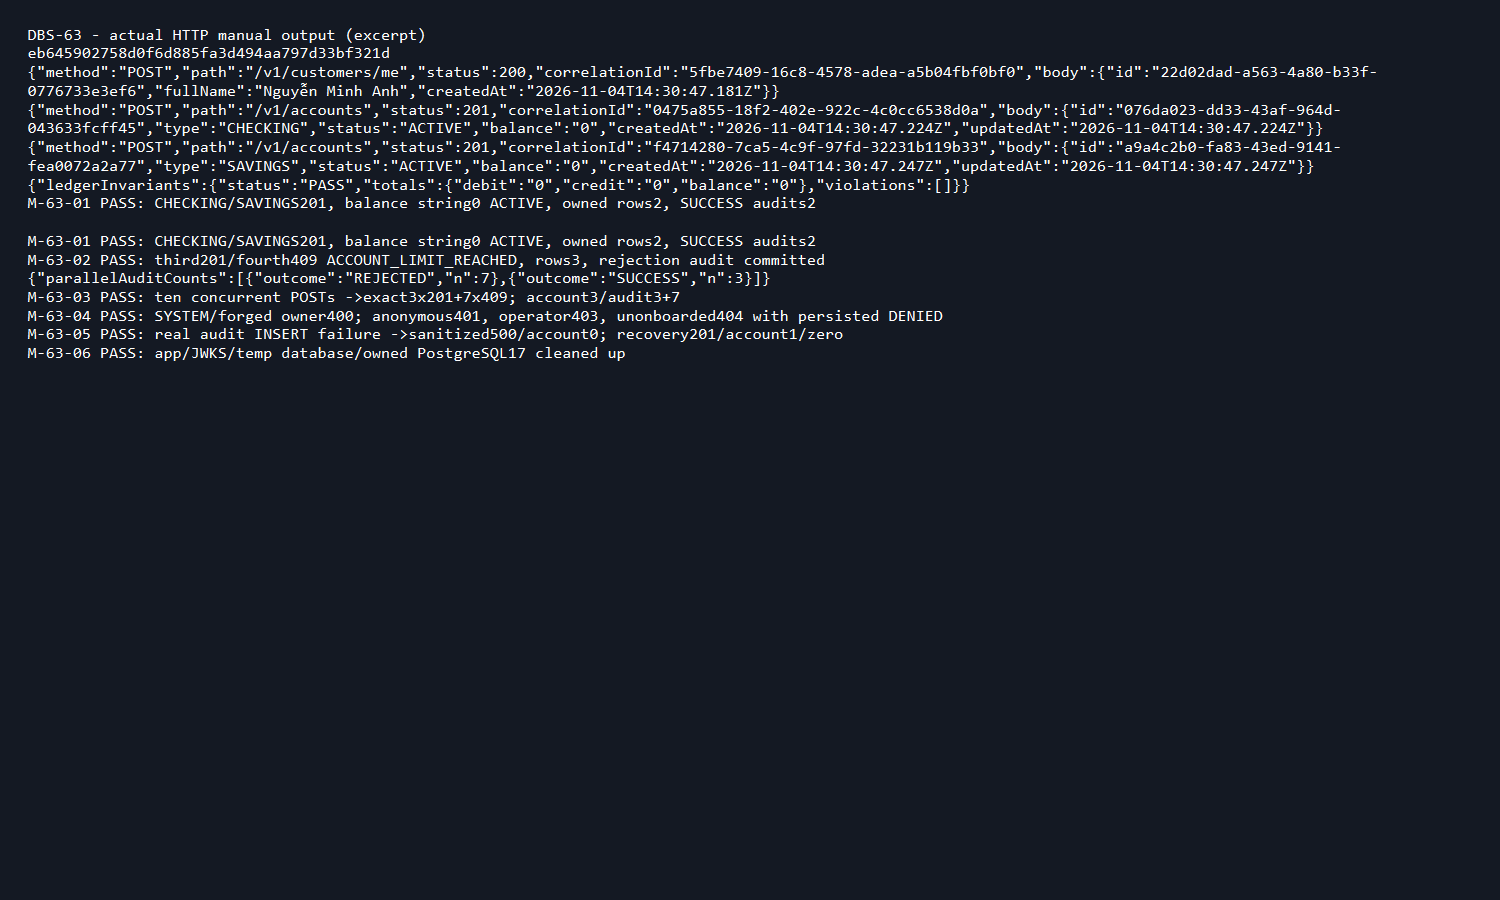
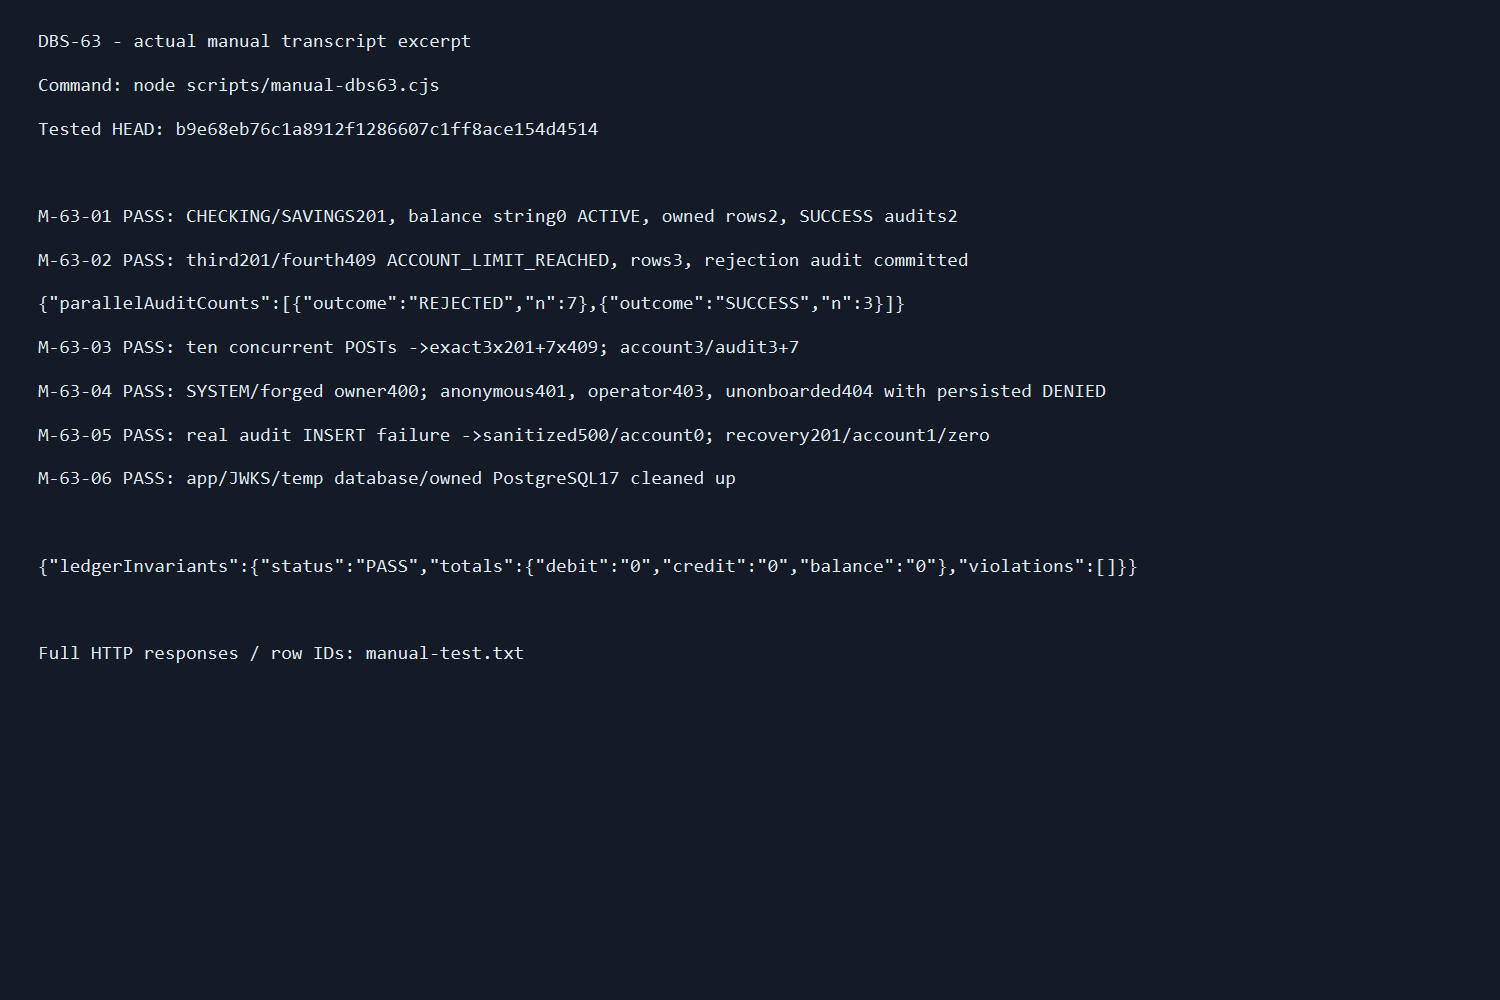
docs(accounts): refresh DBS-63 evidence after main rebase

diff --git a/docs/features/DBS-63-open-accounts.md b/docs/features/DBS-63-open-accounts.md
@@ -1,12 +1,12 @@
 # DBS-63 · UC-2 open customer accounts
 
-Status: Implemented on user-approved temporary DBS-62 base7d41a51; main PR/CI/review/merge pending BL-145. Owner: Dev. Updated 2026-11-04.
+Status: Rebased onto main2df7d0a after DBS-62 merge; main-based Draft PR/CI in progress, Dev review/merge pending BL-145. Owner: Dev. Updated 2026-11-06.
 
 ## 1. Context and scope
 
 Board: Week2, Story, Dev, Highest, In Progress. Exact DoD: open CHECKING/SAVINGS inside a transaction locking the customers row; at least5 concurrent requests create exactly3 accounts, others ACCOUNT_LIMIT_REACHED; audit, initial balance0, SYSTEM forbidden; CI green, Dev review, PR merged and complete test mapping.
 
-Dependencies: DBS-55 on main (PR33). DBS-62 exists in Draft PR56, not merged as of this fetch; main a9e607b lacks onboarding. Branch feat/DBS-63-open-accounts starts from current main; User explicitly approved using the real DBS-62 branch temporarily on2026-11-04. No fake onboarding or SQL customer seed. Fast-forwarded to DBS-62 at7d41a51; keep DBS-63 commits separate, then rebase only those commits onto main after PR56 merges before opening a main-based PR. No board edits or merges by agent.
+Dependencies now on main: DBS-55 PR33; DBS-62 [PR56](https://github.com/Lawliet119/digital-banking-simulator/pull/56) merged2026-11-06 at689a8e85831f1ff6c9c51b8aeef66a4ba1f73caa. Historical implementation started before that merge; main then a9e607b lacked onboarding. Branch feat/DBS-63-open-accounts starts from current main; User explicitly approved using the real DBS-62 branch temporarily on2026-11-04. No fake onboarding or SQL customer seed. Fast-forwarded to DBS-62 at7d41a51; keep DBS-63 commits separate, then rebase only those commits onto main after PR56 merges before opening a main-based PR. No board edits or merges by agent.
 
 Scope is POST /v1/accounts (UC-2, FR-ACC-01, BR-14), zero balance creation plus audit. No balance mutation, deposit/transfer, new account-number field, schema/env/dependency/ErrorCode changes, lock/unlock API, list/balance API, or event contract extension. Account creation is a new resource per request (until3), not transfer/deposit idempotency. Existing gaps BL-112/121 test timing and BL-130/132 identity/global-role audit are reported and remain with their owners. BL-017 application-role test harness is not claimed solved. BL-122 ledger callers/BL-008 money lint remain out of scope.
 
@@ -137,10 +137,18 @@ All business cases end with actual ledger-invariant checker PASS, zero violation
 
 ![Actual HTTP output excerpt](screenshots/DBS-63/01-http-results.png)
 
-Handoff BL-145: after PR56 merges, fetch main and replay only DBS-63 commits using `git rebase --onto origin/main 7d41a51 feat/DBS-63-open-accounts`. Rerun relevant checks and manual evidence at rebased SHA, then main-based Draft PR with prepared mapping and actual CI links. No PR against the dependency branch, board edit, or auto-merge. Board stays In Progress pending main-based PR. Existing handoff rows unchanged, no backlog items closed.
+Historical BL-145 dependency handoff is now resolved by rebase after PR56 merge; current PR/CI/review state is recorded in the final handover below. No PR against dependency branch, board edit or auto-merge. BL-145 remains open only for final CI/Dev review/merge.
 
-Final fetch: PR56 still open/unmerged; origin/main remains a9e607b. [Published DBS-63 branch](https://github.com/Lawliet119/digital-banking-simulator/tree/feat/DBS-63-open-accounts). No GitHub CI/Dev review/merge claimed for DBS-63. Delivery checklist: design/re-review APPROVE, all ten planned cases matched, local automated checks and six manual steps complete; raw output inspected for credential markers and screenshot visually checked; source SHA recorded; no schema/env/dependency/ErrorCode/ADR/event change. Main PR, final CI and Dev review/merge remain explicitly in BL-145.
+Historical pre-merge fetch2026-11-04: PR56 was still open/unmerged and origin/main a9e607b. [Published DBS-63 branch](https://github.com/Lawliet119/digital-banking-simulator/tree/feat/DBS-63-open-accounts). At that historical handoff no GitHub CI/Dev review/merge was claimed for DBS-63; see current handover below. Delivery checklist: design/re-review APPROVE, all ten planned cases matched, local automated checks and six manual steps complete; raw output inspected for credential markers and screenshot visually checked; source SHA recorded; no schema/env/dependency/ErrorCode/ADR/event change. Current final CI and Dev review/merge tracked in BL-145; main PR is now authorized by the follow-up request.
 
 ## 9. Sources and changed docs
 
 Exact sheet DBS-63; docs02 UC-2, FR-ACC-01, BR-14, FR-AUD-01/02; docs03 API/error table; shared database-design4.2, event-contract; Accounts/Audit README, actual schema/TransactionService/AuditService, CONTRIBUTING5/5b. Updated Accounts README and docs03 POST API contract, this feature doc, feature index, BACKLOG BL-145 and raw review/test/manual evidence. Public primitive exports and schema unchanged.
+
+## Rebase and final handover ? 2026-11-06
+
+User requested completion after DBS-62 merge. Independently verified PR56 merged into main689a8e8 (GitHub API), then replayed ONLY commits after7d41a51 onto main2df7d0a. Rebasing application code/tests/manual driver caused no conflicts and byte-for-byte task source is unchanged. Resolved BACKLOG/feature-index conflicts by retaining main rows plus DBS63 own row; no duplicate DBS62 row or inherited commits in PR. Rebased source commit a69bfcf; tested tree/manual HEAD b9e68eb includes only later documentation. Manual re-executed6/6 on that exact tree, raw firstline SHA records it. Automated check results, new PR and final CI appended below once observed. No human Dev review/merge claimed; board changes remain with user.
+
+Rebased-tree checks2026-11-06: lint/typecheck/build PASS; full unit56 suites832/832 PASS(50.551s), full e2e13 suites135/135 PASS(83.168s), manual6/6 PASS at b9e68eb. Initial related-DB command had a filename typo(audit-service instead of actual audit.service),62 actual cases passed but command failed ENOENT; corrected command rerun and final result recorded below. Never treated ENOENT as suite success. No task test skips.
+
+Final corrected related-DB command: four suites75/75 PASS(10.185s), including all10 account-opening cases and real parent-lock503/recovery. Full DB suite remains for PR CI; selected75 not claimed fullDB.

diff --git a/docs/BACKLOG.md b/docs/BACKLOG.md
@@ -86,4 +86,4 @@ Quy tắc:
 | BL-156 | AC-5.9 chưa được kiểm đầy đủ: TC-61-06 chỉ có một nguồn → một đích và chuyển chéo hai chiều. Thiếu ca nhiều khách chuyển đồng thời vào một tài khoản nhận rất nhiều lệnh (tài khoản nóng) rồi kiểm bất biến sổ cái | [DBS-61](features/DBS-61-customer-transfers.md) §1, §6 (phát hiện 6) | Dev test tải / Ledger tuần 3 | Có test hoặc kịch bản tải nhiều người gửi → một tài khoản nhận, cuối đợt tổng Nợ = tổng Có, tổng số dư toàn hệ thống = 0, không tài khoản khách nào âm |
 | BL-160 | Cả 48 PR đã merge tới `aeee9c9` (2026-11-07) đều **không có review trên GitHub**; bấm merge không được tính là review (CONTRIBUTING §1.4). Thay cho 21 dòng "chờ review/merge" cũ (BL-020, 022, 025, 030, 052, 054, 057, 124, 126, 131, 134, 137, 139, 141, 142, 144, 149, 150, 151, 153 và phần review của BL-135). Danh sách sinh bằng `group-bl160.cjs`, nhóm theo danh sách đường tiền của skill. **Đường tiền (22):** #1, #2, #7, #8, #9, #10, #12, #13, #16, #17, #29, #33, #34, #35, #44, #46, #47, #48, #54, #56, #57, #61. **Code khác và skill (24):** #4, #5, #6, #11, #15, #18, #19, #20, #22, #23, #24, #25, #27, #30, #32, #36, #37, #38, #39, #41, #42, #43, #51, #52. **Chỉ docs (2):** #3, #28 (#28 có 0 file, được miễn). Gợi ý ngoài phạm vi: bật required approvals = 1 trên ruleset `main` (cùng chỗ với BL-012) để PR mới không lặp lại khoảng thiếu này | [CHORE-20261107-repo-audit](features/CHORE-20261107-repo-audit.md) §2.1 câu 1, [group-bl160.cjs](features/screenshots/CHORE-20261107-repo-audit/group-bl160.cjs), [check-backlog.cjs](features/screenshots/CHORE-20261107-repo-audit/check-backlog.cjs) | Dev (mỗi PR một Dev review, ưu tiên nhóm đường tiền) | Mỗi PR trong danh sách (trừ #28) có một review trên GitHub (Approve, hoặc Comment kèm bảng TC đã kiểm) của một Dev không phải tác giả và không có commit trong PR; review sau khi merge vẫn tính; ai bấm merge không ảnh hưởng. Kiểm bằng `check-backlog.cjs`. Khi một PR đạt thì bỏ PR đó khỏi danh sách |
 | BL-161 | Hạ tầng cho nửa bất đồng bộ còn thiếu trong Terraform trên `main` (code relay và consumer thông báo đã chạy ở role worker). Hai queue và hai DLQ (redrive `maxReceiveCount = 5`, giữ 4 ngày) và quyền SQS tối thiểu cho worker thuộc [PR #40 DBS-73](https://github.com/Lawliet119/digital-banking-simulator/pull/40): đã được apply vào `dev/base.tfstate` (kiểm bằng AWS CLI 2026-11-07) nhưng PR chưa merge, nên `main` và state đang lệch nhau. Còn lại: (1) merge PR #40; (2) ECS service `worker` (`APP_ROLE=worker`, không cổng HTTP, cùng image) với security group riêng, ingress tới RDS và Redis (cùng BL-119), log group, biến `SQS_*_QUEUE_URL`; (3) role DB `dbs_worker` (script ở `infra/scripts/db-roles.sql`, BL-103); (4) alarm DLQ, tuổi outbox chưa gửi cũ nhất, tuổi message cũ nhất (BL-051, BL-117; docs/03 §14); (5) WAF (BL-037); (6) ECR `dbs-api` đang trống, chưa có image để chạy thử trên AWS. Không có (2) thì outbox trên AWS chỉ tích lũy sự kiện. | docs/03 §4, §10, §13, §14; [ADR-03](adr/0003-sync-transfer-async-outbox-sqs.md) | #5 Platform & Ops | PR #40 đã merge; `terraform apply` dựng được service worker; một lệnh chuyển tiền trên AWS làm xuất hiện log thông báo của worker; kill worker rồi bật lại, outbox được xả; message lỗi vào DLQ và alarm kêu |
-| BL-145 | DBS-63 được triển khai trên nền DBS-62 tạm đã được user cho phép; PR #56 chưa merge, nên PR vào main/CI/Dev review/merge còn chờ | [DBS-63](features/DBS-63-open-accounts.md) §8 | Dev chủ DBS-63 và reviewer | Sau khi #56 merge, rebase riêng commit sau base7d41a51 lên main, kiểm tra lại và mở PR có bảng test case; CI xanh, Dev khác review và merge |
+| BL-145 | DBS-63 dependency PR56 merged; own commits rebased onto main2df7d0a and local checks/manual repeated. Main Draft PR/CI/Dev review/merge tracked in feature doc | [DBS-63](features/DBS-63-open-accounts.md) section8 | Dev task owner / reviewer | Main-based PR has full case mapping, final CI green, independent Dev review and merge |

diff --git a/docs/features/screenshots/DBS-63/pr-description.md b/docs/features/screenshots/DBS-63/pr-description.md
@@ -7,7 +7,7 @@ Thêm `POST /v1/accounts` cho customer mở CHECKING/SAVINGS, số dư chuỗi `
 
 Mô tả PR đã chuẩn bị; chỉ mở PR vào main sau khi DBS-62 PR #56 được merge và rebase riêng DBS-63 khỏi base7d41a51.
 
-Kiểm tra local: lint/typecheck/build xanh;826/826 unit,135/135 e2e,75/75 test PostgreSQL của bốn suite liên quan; test thủ công6/6 và invariants PASS. Chưa chạy CI của DBS-63 vì chưa mở PR vào main.
+Kiểm tra local: lint/typecheck/build xanh;832/832 unit,135/135 e2e,75/75 test PostgreSQL của bốn suite liên quan; test thủ công6/6 và invariants PASS. Chưa chạy CI của DBS-63 vì chưa mở PR vào main.
 
 ## Loại thay đổi
 
